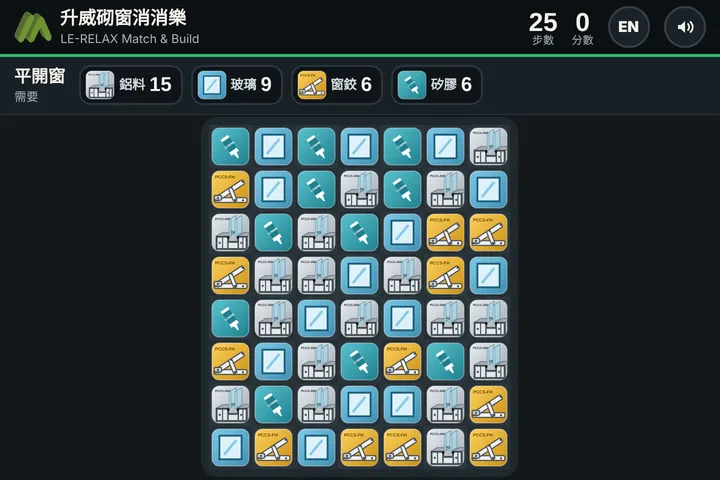
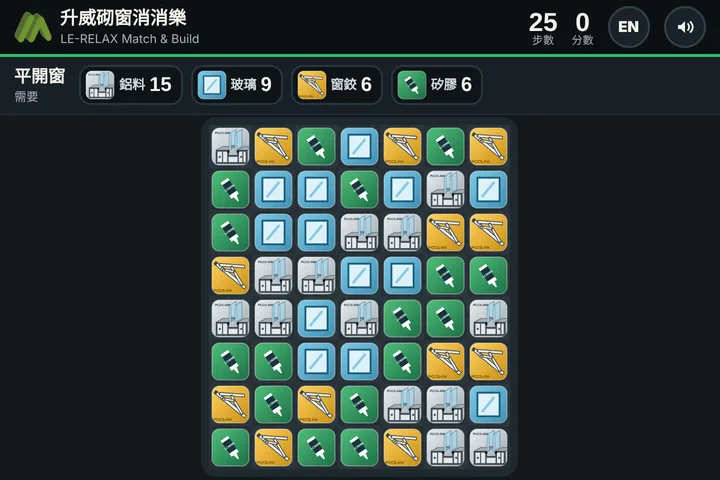
Add files via upload

Changed region(s): [[0.275, 0.25, 0.7028, 1.0], [0.55, 0.125, 0.6111, 0.2188], [0.3972, 0.1562, 0.4583, 0.2188]]

diff --git a/games/workshop/index.html b/games/workshop/index.html
@@ -319,11 +319,17 @@ function makeStamp() {
   S.need.forEach((k, i) => S.marks.push({k, x: .65 + i * .38}));
   return S;
 }
+// a straight bar between two points in the hinge's unit box (width 1, height .36 of width), as a 4-point polygon
+const HA = .36;
+function HB(a, b, t) { const dx = b[0] - a[0], dy = (b[1] - a[1]) * HA, L = Math.hypot(dx, dy), nx = -dy / L * t, ny = dx / L * t / HA; return [[a[0] + nx, a[1] + ny], [b[0] + nx, b[1] + ny], [b[0] - nx, b[1] - ny], [a[0] - nx, a[1] - ny]]; }
+const HINGE = { // open friction stay, proportions taken from a real one: sash arm and track meet near the hinge end and open into a V
+  track: HB([.02, .86], [.98, .86], .026), arm: HB([.09, .77], [.82, .08], .02), stay: HB([.42, .45], [.86, .86], .018), link: HB([.24, .86], [.55, .57], .016),
+  shoe: [[.19, .79], [.31, .79], [.31, .93], [.19, .93]], rv: [[.09, .77], [.42, .45], [.86, .86], [.24, .86], [.55, .57]]};
 function makeRivet() {
   const S = {kind: 'hinge', type: 'drag', what: 'hinge', asp: .36, shrink: .92, poly: [], cuts: [], butt: 0, rivet: 1};
   const rect = (x0, y0, x1, y1) => [[x0, y0], [x1, y0], [x1, y1], [x0, y1]];
-  S.parts = [{side: 'long', poly: rect(.08, .44, .78, .56), off: [0, -.55]}, {side: 'short', poly: rect(.3, .22, .66, .32), off: [.1, -.5]}, {side: 'shoe', poly: rect(.66, .6, .82, .8), off: [.12, .6]}].map(p => ({...p, done: 0}));
-  S.holes = [[.12, .5], [.74, .5], [.34, .27], [.62, .27], [.74, .7]].map(([u, v]) => ({u, v, r: .016, rv: 1}));
+  S.parts = [{side: 'long', poly: HINGE.arm, off: [0, -.6]}, {side: 'short', poly: HINGE.stay, off: [.08, .55]}, {side: 'shoe', poly: HINGE.link, off: [-.06, .6]}].map(p => ({...p, done: 0}));
+  S.holes = HINGE.rv.map(([u, v]) => ({u, v, r: .016, rv: 1}));
   return S;
 }
 function makeSeal(kind) {
@@ -609,8 +615,10 @@ function drawDrag(S, now) {
   const g = geom(S), bead = S.what === 'bead', blk = S.what === 'block', hg = S.what === 'hinge';
   if (bead) frameBase(S, g, {glass: 1, gaskets: 1});
   else if (blk) { frameBase(S, g, {gaskets: 1}); X.fillStyle = 'rgba(190,225,240,.18)'; const fw = g.w * FR, fh = g.h * FR / S.asp; X.setLineDash([6, 6]); X.strokeStyle = 'rgba(190,225,240,.6)'; X.lineWidth = 2; X.strokeRect(g.x + fw + 8, g.y + fh + 8, g.w - 2 * fw - 16, g.h - 2 * fh - 16); X.setLineDash([]); }
-  else if (hg) { X.save(); X.shadowColor = 'rgba(0,0,0,.4)'; X.shadowBlur = 12; poly([[g.x, g.y + g.h * .6], [g.x + g.w, g.y + g.h * .6], [g.x + g.w, g.y + g.h * .8], [g.x, g.y + g.h * .8]], steelFill(g.x, g.y + g.h * .6, g.x, g.y + g.h * .8), '#6f787e', 1.5); X.restore();
-    X.fillStyle = 'rgba(0,0,0,.35)'; X.fillRect(g.x + 4, g.y + g.h * .66, g.w - 8, g.h * .06); }
+  else if (hg) { const U = q => [g.x + q[0] * g.w, g.y + q[1] * g.h];
+    X.save(); X.shadowColor = 'rgba(0,0,0,.4)'; X.shadowBlur = 12; poly(HINGE.track.map(U), steelFill(g.x, g.y + g.h * .78, g.x, g.y + g.h * .9), '#6f787e', 1.5); X.restore();
+    X.fillStyle = 'rgba(0,0,0,.4)'; X.fillRect(g.x + g.w * .24, g.y + g.h * .83, g.w * .58, g.h * .025); // slot the shoe slides in
+    poly(HINGE.shoe.map(U), steelFill(g.x + g.w * .09, g.y + g.h * .74, g.x + g.w * .21, g.y + g.h * .94), '#5f686e', 1.5); }
   else { X.setLineDash([8, 6]); X.strokeStyle = 'rgba(255,176,46,.8)'; X.lineWidth = 2; X.strokeRect(g.x, g.y, g.w, g.h); const fw = g.w * FR, fh = g.h * FR / S.asp; X.strokeRect(g.x + fw, g.y + fh, g.w - 2 * fw, g.h - 2 * fh); X.setLineDash([]); }
   for (const pt of S.parts) { if (!pt.done) { X.setLineDash([6, 5]); poly(pt.poly.map(q => [g.x + q[0] * g.w, g.y + q[1] * g.h]), 'rgba(255,176,46,.12)', 'rgba(255,176,46,.9)', 2); X.setLineDash([]); } }
   const order = [...S.parts].sort((a, b) => (a === (ptr && ptr.part)) - (b === (ptr && ptr.part)));
@@ -716,10 +724,12 @@ function drawCartridge(x, y, k, rot) { // WACKER LC909N neutral cure silicone ca
 function drawProduct(p, now, tt) {
   if (p === 'hinge') { const w = Math.min(W * .8, 440), h = w * .36, x = W / 2 - w / 2, y = H * .5 - h / 2, s2 = Math.min(1, tt * 3);
     X.save(); X.translate(W / 2, H / 2); X.scale(.8 + .2 * s2, .8 + .2 * s2); X.translate(-W / 2, -H / 2); X.shadowColor = 'rgba(0,0,0,.45)'; X.shadowBlur = 20; X.shadowOffsetY = 8;
-    X.fillStyle = steelFill(x, y + h * .6, x, y + h * .8); X.fillRect(x, y + h * .6, w, h * .2); X.shadowColor = 'transparent';
-    X.fillStyle = steelFill(x, y, x + w, y + h); X.fillRect(x + w * .08, y + h * .44, w * .7, h * .12); X.fillRect(x + w * .3, y + h * .22, w * .36, h * .1); X.fillRect(x + w * .66, y + h * .6, w * .16, h * .2);
-    X.fillStyle = '#7a8288'; for (const [u, v] of [[.12, .5], [.74, .5], [.34, .27], [.62, .27], [.74, .7]]) { X.beginPath(); X.arc(x + u * w, y + v * h, 5, 0, 7); X.fill(); }
-    X.fillStyle = '#2ebd6b'; X.font = '900 16px Barlow,"Noto Sans HK"'; X.textAlign = 'center'; X.fillText('LE-RELAX · STAINLESS', W / 2, y + h + 26); X.restore(); return; }
+    const U = q => [x + q[0] * w, y + q[1] * h];
+    poly(HINGE.track.map(U), steelFill(x, y + h * .78, x, y + h * .9), '#6f787e', 1.5); X.shadowColor = 'transparent';
+    X.fillStyle = 'rgba(0,0,0,.4)'; X.fillRect(x + w * .24, y + h * .83, w * .58, h * .025);
+    for (const k of ['shoe', 'link', 'stay', 'arm']) poly(HINGE[k].map(U), steelFill(x, y, x + w, y + h), '#6f787e', 1.5);
+    for (const [u, v] of HINGE.rv) { X.fillStyle = '#d9dde0'; X.beginPath(); X.arc(x + u * w, y + v * h, 6, 0, 7); X.fill(); X.strokeStyle = '#555'; X.lineWidth = 1.5; X.stroke(); X.fillStyle = '#8a9298'; X.beginPath(); X.arc(x + u * w, y + v * h, 2.5, 0, 7); X.fill(); }
+    X.fillStyle = '#2ebd6b'; X.font = '900 17px Barlow,"Noto Sans HK"'; X.textAlign = 'center'; X.fillText(LANG === 'zh' ? '升威 PCCS-FH 認證窗鉸' : 'LE-RELAX PCCS-FH certified hinge', W / 2, y + h + 26); X.fillStyle = '#a9b3b9'; X.font = '700 14px Barlow,"Noto Sans HK"'; X.fillText(LANG === 'zh' ? '經颱風級測試' : 'Typhoon tested', W / 2, y + h + 48); X.restore(); return; }
   const door = p === 'sliding', h = Math.min(H * .55, door ? 360 : 260), w = door ? h * .55 : h * .85, x = W / 2 - w / 2, y = H * .5 - h / 2 + 20, s = Math.min(1, tt * 3), f = w * .085;
   X.save(); X.translate(W / 2, y + h / 2); X.scale(.8 + .2 * s, .8 + .2 * s); X.translate(-W / 2, -(y + h / 2));
   X.shadowColor = 'rgba(0,0,0,.45)'; X.shadowBlur = 24; X.shadowOffsetY = 10; X.fillStyle = '#c9ced3'; X.fillRect(x, y, w, h); X.shadowColor = 'transparent';

diff --git a/games/match/index.html b/games/match/index.html
@@ -204,7 +204,7 @@ const ICON = {
 };
 
 // ---------- tile art ----------
-const COL = {glass: ['#7cc9e6', '#3f8fb3'], profile: ['#e9edf0', '#9aa4ab'], hinge: ['#ffd25e', '#c98f12'], seal: ['#59c3cf', '#1f7f8d'], handle: ['#e2585a', '#8f2023'], old: ['#9a7356', '#5a3e2a']};
+const COL = {glass: ['#7cc9e6', '#3f8fb3'], profile: ['#e9edf0', '#9aa4ab'], hinge: ['#ffd25e', '#c98f12'], seal: ['#4fbf7a', '#1c6e45'], handle: ['#e2585a', '#8f2023'], old: ['#9a7356', '#5a3e2a']};
 function rrect(x, a, b, w, h, r) { x.beginPath(); x.moveTo(a + r, b); x.arcTo(a + w, b, a + w, b + h, r); x.arcTo(a + w, b + h, a, b + h, r); x.arcTo(a, b + h, a, b, r); x.arcTo(a, b, a + w, b, r); x.closePath(); }
 function tileArt(x, kind, cx, cy, s, sp) {
   const h = s / 2, [c1, c2] = COL[kind], g = x.createLinearGradient(cx - h, cy - h, cx + h, cy + h); g.addColorStop(0, c1); g.addColorStop(1, c2);
@@ -226,15 +226,18 @@ function tileArt(x, kind, cx, cy, s, sp) {
     x.fillStyle = '#4d575e'; for (const [a, b] of [[-34, 26], [24, 26]]) { x.beginPath(); x.arc(a * u, b * u, 3 * u, 0, 7); x.fill(); } // screw ports
     x.fillStyle = '#111315'; for (const [a, b] of [[-11, 12], [15, 12]]) { x.beginPath(); x.arc(a * u, b * u, 3.4 * u, 0, 7); x.fill(); } // seals holding the glass
     x.fillStyle = '#2d3439'; x.font = `900 ${8.5 * u}px Barlow,Arial`; x.textAlign = 'left'; x.fillText('PCCS-AW', -47 * u, -36 * u); }
-  if (kind === 'hinge') { // stainless steel friction stay, shown open (PCCS-FH type)
-    const ss = '#eef1f3', ln = '#4a4f54'; x.lineWidth = 3 * u; x.strokeStyle = ln; x.fillStyle = ss;
-    rrect(x, -44 * u, 22 * u, 88 * u, 13 * u, 4 * u); x.fill(); x.stroke(); // track, fixed to the frame
-    x.save(); x.translate(-34 * u, 24 * u); x.rotate(-.58); rrect(x, -5 * u, -6.5 * u, 88 * u, 13 * u, 4 * u); x.fill(); x.stroke(); x.restore(); // sash arm
-    x.save(); x.translate(12 * u, 28 * u); x.rotate(-1.95); rrect(x, -4 * u, -5 * u, 40 * u, 10 * u, 4 * u); x.fill(); x.stroke(); x.restore(); // stay link
-    rrect(x, -44 * u, 16 * u, 20 * u, 13 * u, 3 * u); x.fillStyle = '#c8ced3'; x.fill(); x.stroke(); // sliding shoe
-    x.fillStyle = ln; for (const [a, b] of [[-34, 23], [12, 28], [2, -5], [34, 29], [-40, 29], [33, -21]]) { x.beginPath(); x.arc(a * u, b * u, 3 * u, 0, 7); x.fill(); }
-    x.fillStyle = '#6b4c05'; x.font = `900 ${12 * u}px Barlow,Arial`; x.textAlign = 'left'; x.fillText('PCCS-FH', -42 * u, -30 * u); }
-  if (kind === 'seal') { x.rotate(-.6); x.fillStyle = '#ffffff'; x.fillRect(-12 * u, -30 * u, 24 * u, 52 * u); x.fillStyle = '#1f7f8d'; x.fillRect(-12 * u, -22 * u, 24 * u, 34 * u); x.fillStyle = '#fff'; x.font = `900 ${8 * u}px Barlow,Arial`; x.textAlign = 'center'; x.fillText('LC909N', 0, -2 * u); x.fillStyle = '#ffffff'; x.beginPath(); x.moveTo(-5 * u, 22 * u); x.lineTo(5 * u, 22 * u); x.lineTo(1.5 * u, 38 * u); x.lineTo(-1.5 * u, 38 * u); x.fill(); }
+  if (kind === 'hinge') { // stainless friction stay as in the real product: track and sash arm opening into a V, stay arm and short arm between
+    const ss = '#eef1f3', ln = '#4a4f54', bar = (a, b, t) => { const dx = b[0] - a[0], dy = b[1] - a[1], L = Math.hypot(dx, dy), nx = -dy / L * t, ny = dx / L * t; x.beginPath(); x.moveTo((a[0] + nx) * u, (a[1] + ny) * u); x.lineTo((b[0] + nx) * u, (b[1] + ny) * u); x.lineTo((b[0] - nx) * u, (b[1] - ny) * u); x.lineTo((a[0] - nx) * u, (a[1] - ny) * u); x.closePath(); x.fill(); x.stroke(); };
+    x.lineWidth = 2.2 * u; x.strokeStyle = ln; x.fillStyle = ss;
+    bar([-40, -33], [40, 33], 4.2); // track
+    bar([-30, -29], [38, -24], 3.6); // sash arm
+    bar([2, -24], [32, 26], 3.2); // stay arm
+    bar([-21, -16], [10, -10], 2.8); // short arm to the sliding shoe
+    x.fillStyle = '#c8ced3'; x.save(); x.translate(-21 * u, -16 * u); x.rotate(.69); rrect(x, -6 * u, -4 * u, 12 * u, 8 * u, 2 * u); x.fill(); x.stroke(); x.restore(); // shoe
+    x.fillStyle = '#3c4246'; x.save(); x.translate(-40 * u, -33 * u); x.rotate(.69); rrect(x, -4 * u, -5 * u, 8 * u, 10 * u, 2 * u); x.fill(); x.restore(); // end stop
+    x.fillStyle = ln; for (const [a, b] of [[-30, -29], [2, -24], [32, 26], [-21, -16], [10, -10]]) { x.beginPath(); x.arc(a * u, b * u, 2.4 * u, 0, 7); x.fill(); }
+    x.fillStyle = '#6b4c05'; x.font = `900 ${11 * u}px Barlow,Arial`; x.textAlign = 'left'; x.fillText('PCCS-FH', -46 * u, 44 * u); }
+  if (kind === 'seal') { x.rotate(-.6); x.fillStyle = '#ffffff'; x.fillRect(-12 * u, -30 * u, 24 * u, 52 * u); x.fillStyle = '#16353d'; x.fillRect(-12 * u, -22 * u, 24 * u, 34 * u); x.fillStyle = '#fff'; x.font = `900 ${8 * u}px Barlow,Arial`; x.textAlign = 'center'; x.fillText('LC909N', 0, -2 * u); x.fillStyle = '#ffffff'; x.beginPath(); x.moveTo(-5 * u, 22 * u); x.lineTo(5 * u, 22 * u); x.lineTo(1.5 * u, 38 * u); x.lineTo(-1.5 * u, 38 * u); x.fill(); }
   if (kind === 'handle') { // casement window lever handle on its base plate
     x.fillStyle = '#f7f2f2'; x.strokeStyle = '#6d1b1d'; x.lineWidth = 2.5 * u; rrect(x, -34 * u, -26 * u, 18 * u, 52 * u, 7 * u); x.fill(); x.stroke();
     x.beginPath(); x.arc(-25 * u, -6 * u, 9 * u, 0, 7); x.fill(); x.stroke();
